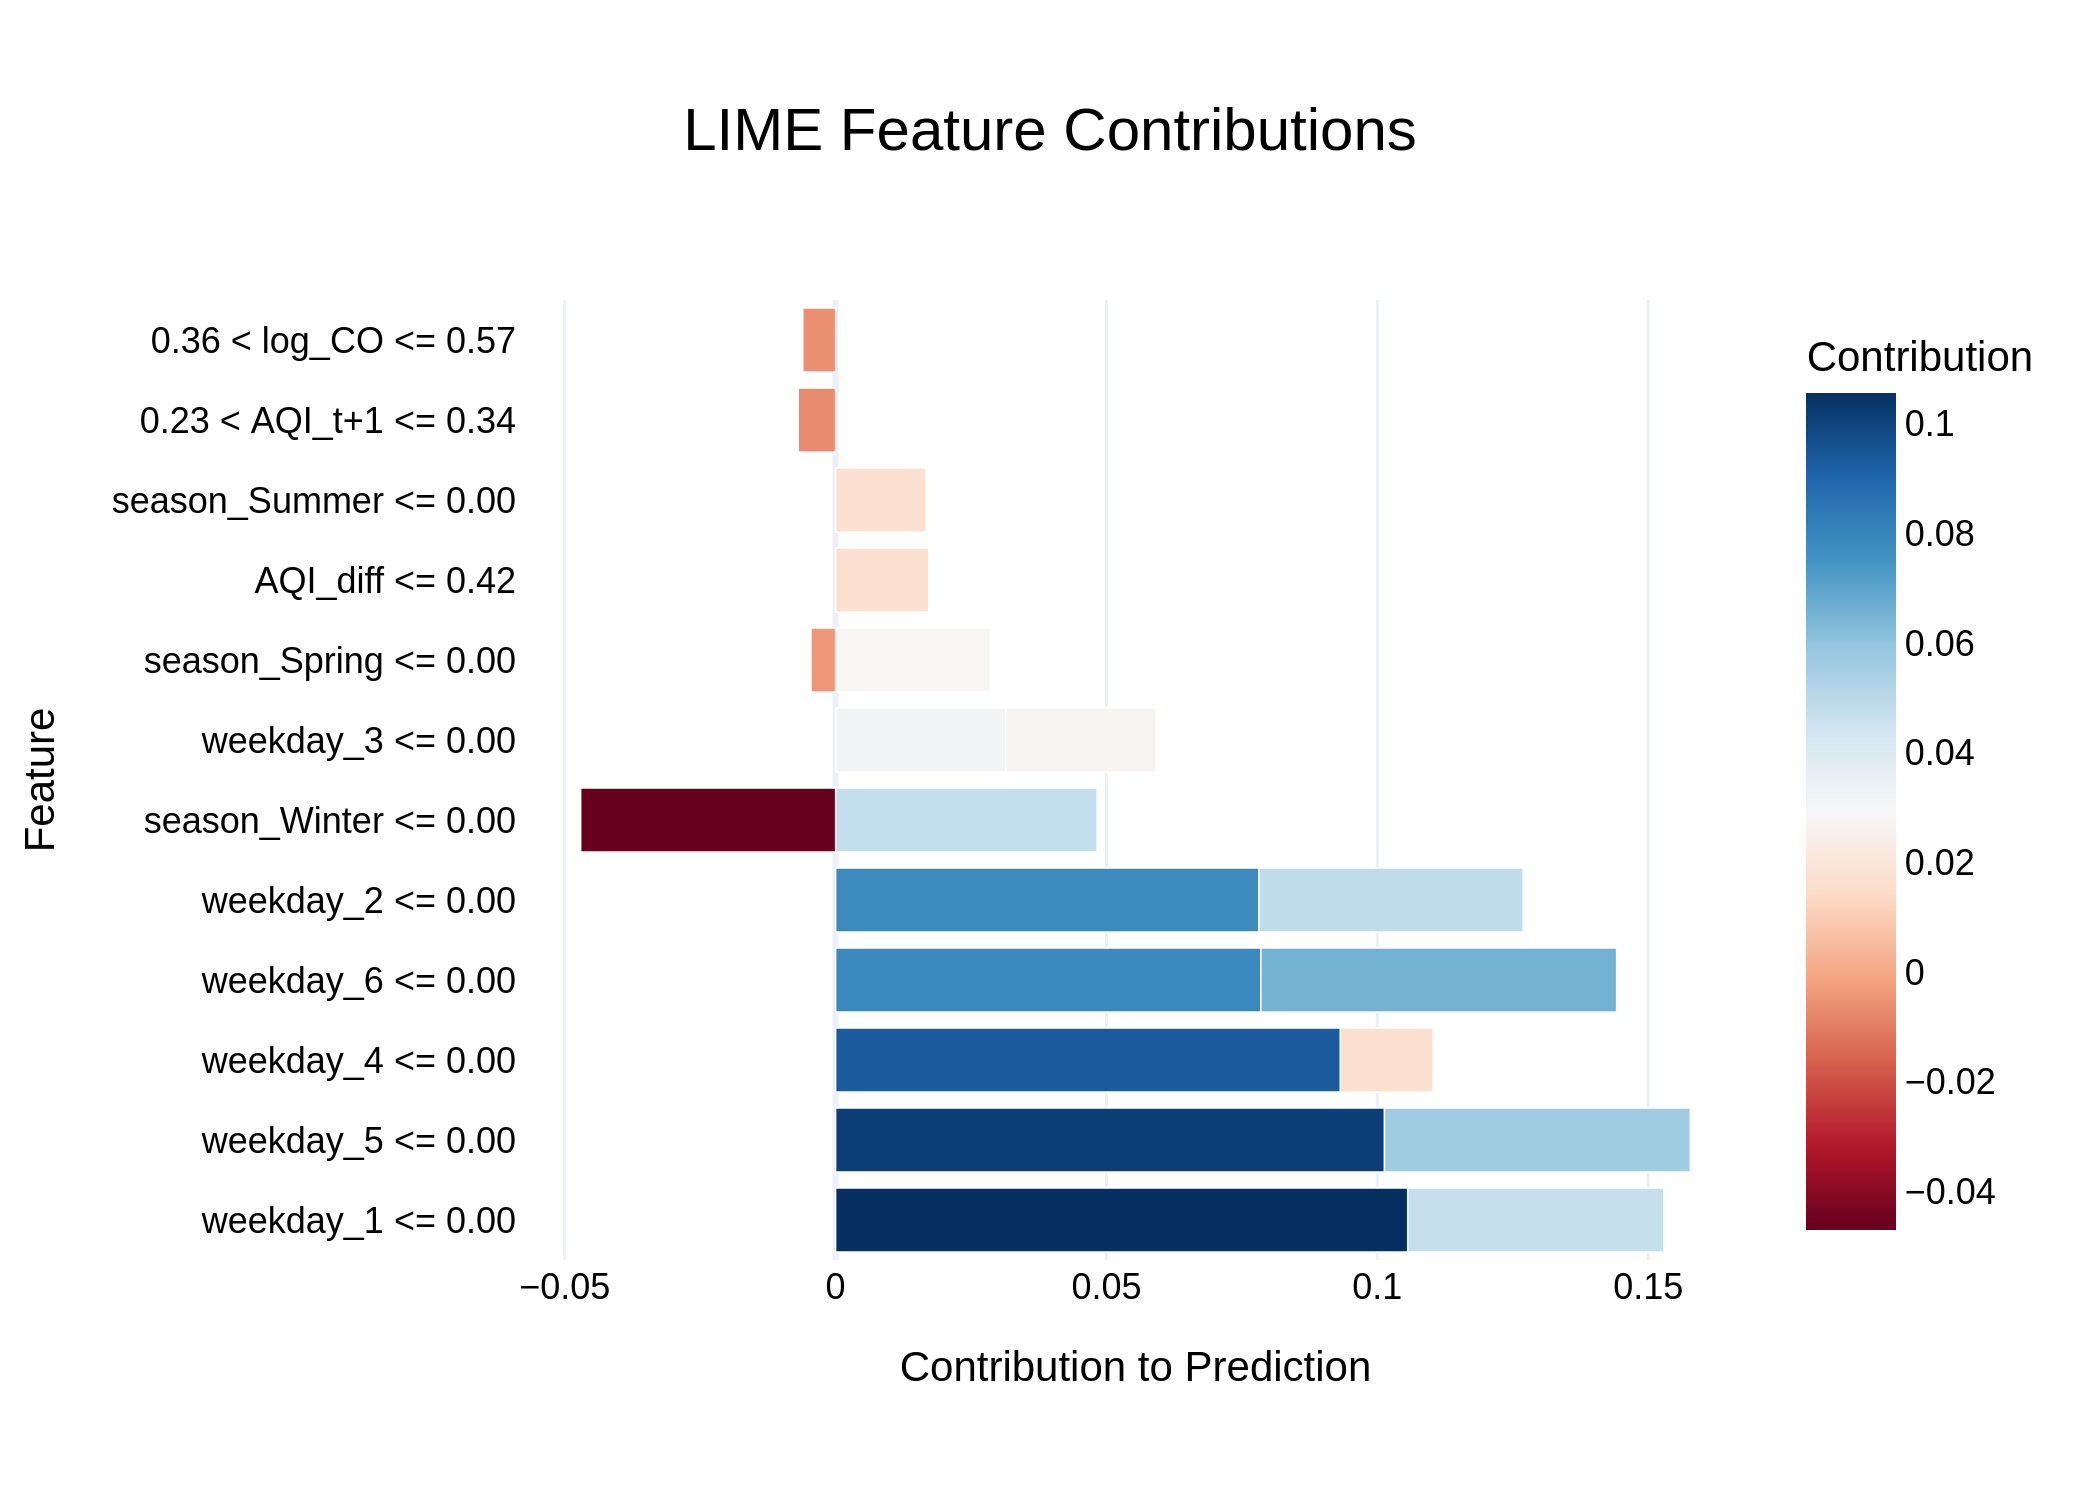
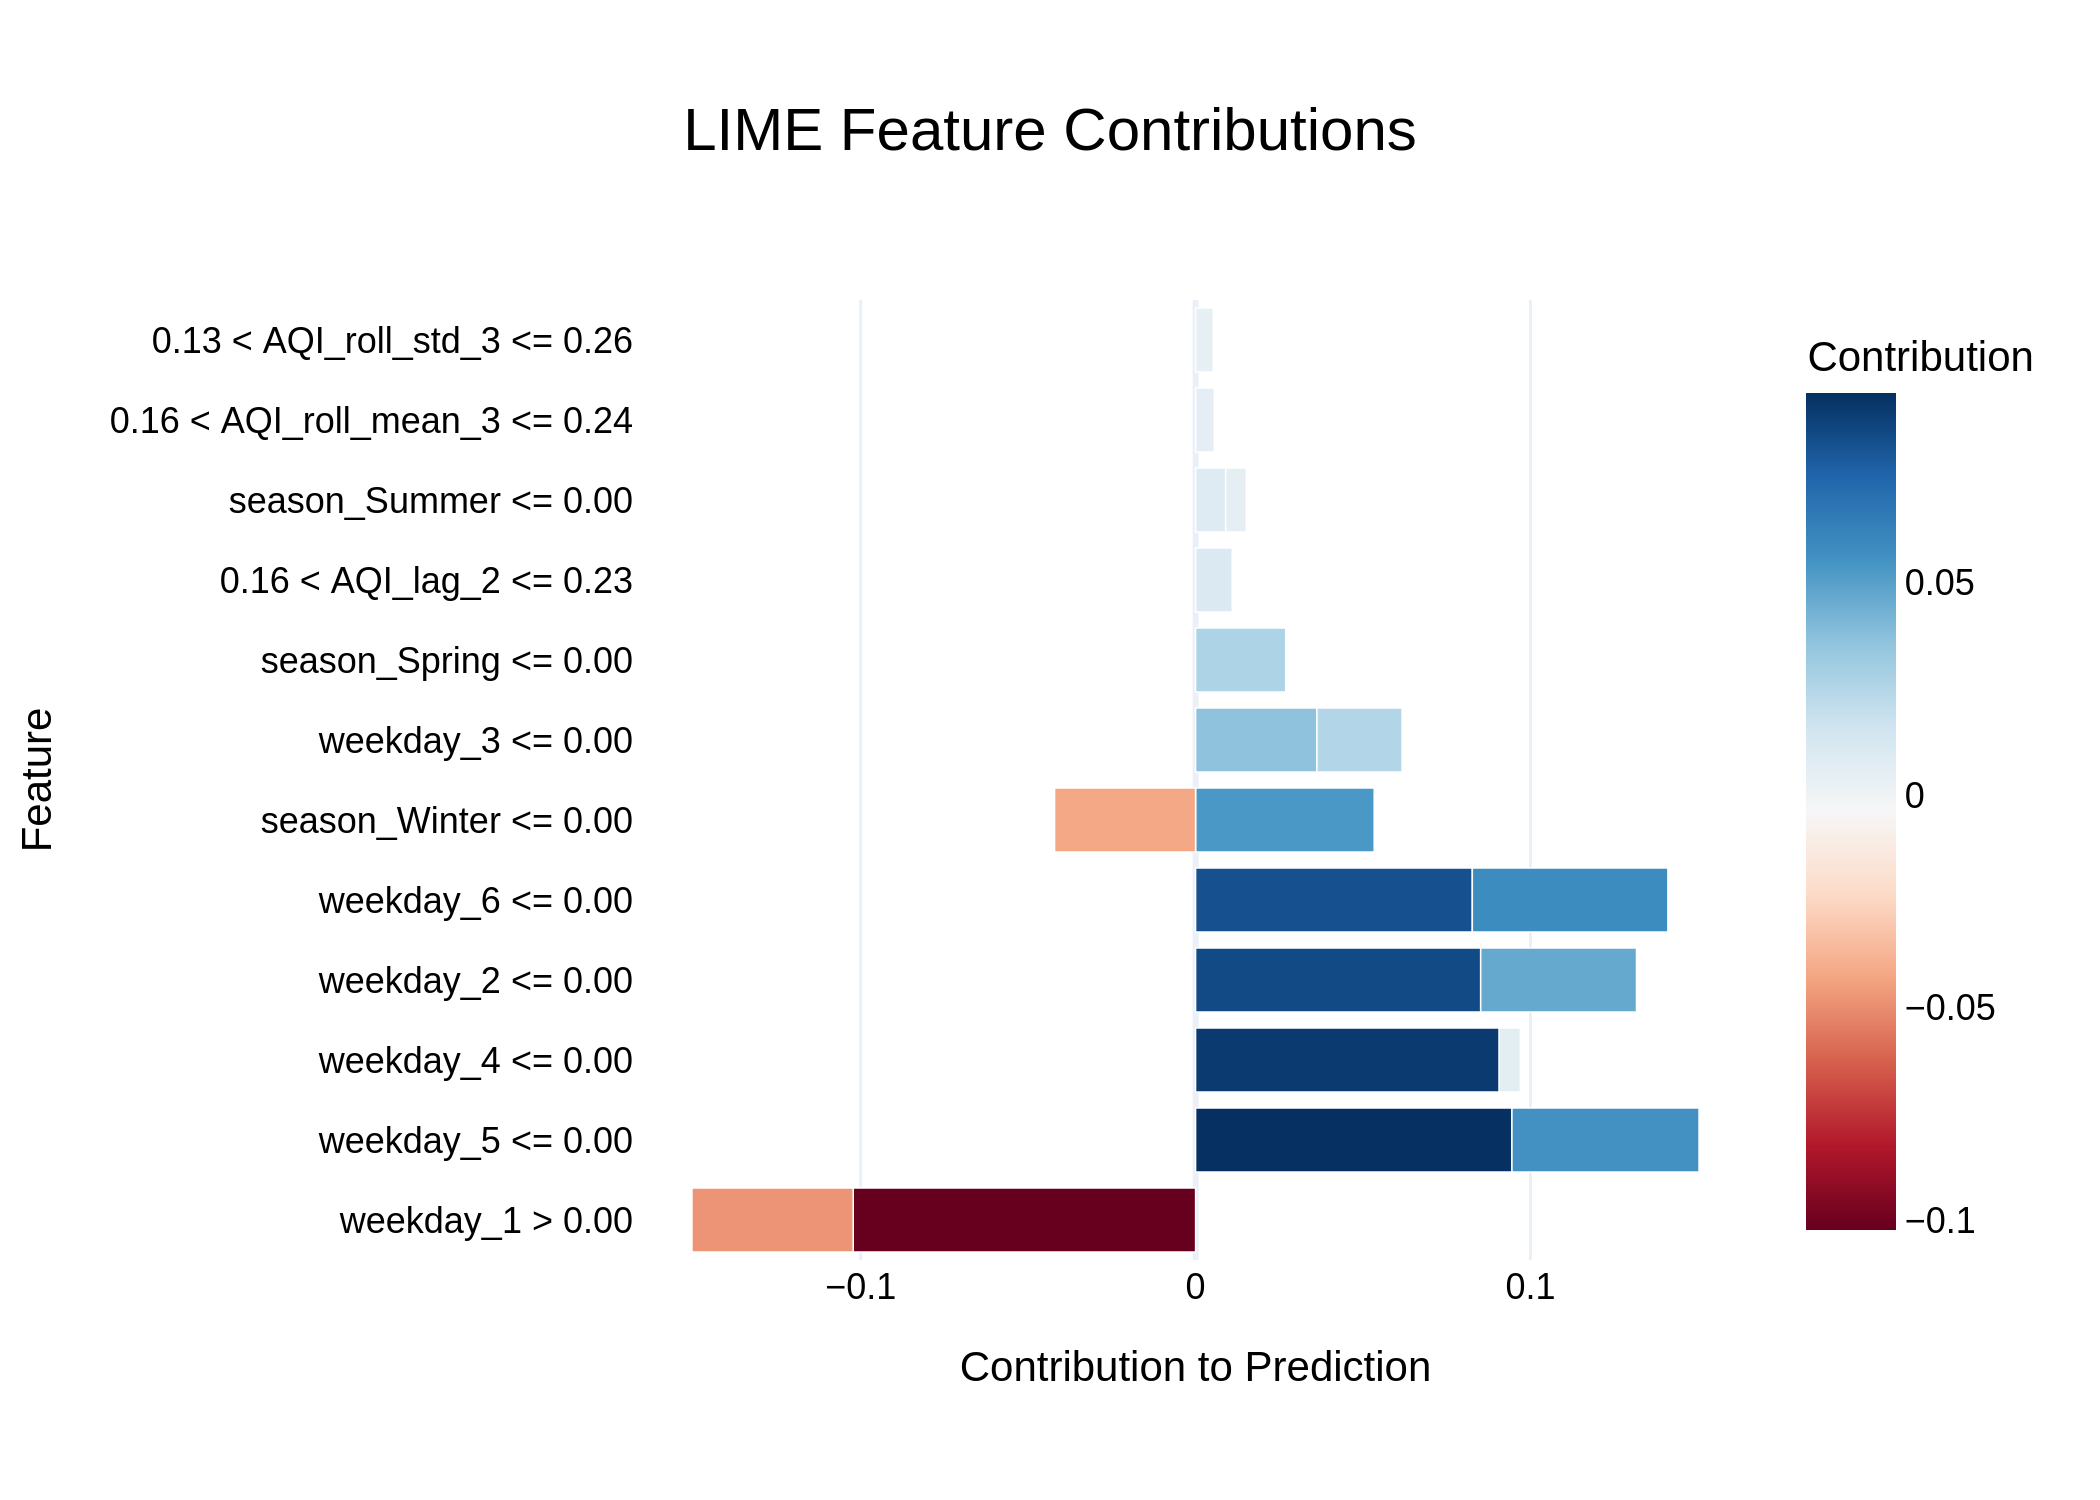
🔄 Auto: Daily data, prediction & LIME update

diff --git a/lime_explanations/lime_explanation.html b/lime_explanations/lime_explanation.html
@@ -37089,25 +37089,25 @@
 /***/ })
 /******/ ]);
 //# sourceMappingURL=bundle.js.map </script></head><body>
-        <div class="lime top_div" id="top_divLEEZT3BZEUR2BBS"></div>
+        <div class="lime top_div" id="top_divAWPNVOVSG1CM1ZB"></div>
         
         <script>
-        var top_div = d3.select('#top_divLEEZT3BZEUR2BBS').classed('lime top_div', true);
+        var top_div = d3.select('#top_divAWPNVOVSG1CM1ZB').classed('lime top_div', true);
         
         
                     var pp_div = top_div.append('div')
                                         .classed('lime predicted_value', true);
                     var pp_svg = pp_div.append('svg').style('width', '100%');
-                    var pp = new lime.PredictedValue(pp_svg, 0.41367965936660767, -0.20943444967269897, 0.8787821531295776);
+                    var pp = new lime.PredictedValue(pp_svg, 0.276661217212677, -0.15486571192741394, 0.7439906597137451);
                     
         var exp_div;
             var exp = new lime.Explanation(["negative", "positive"]);
         
             exp_div = top_div.append('div').classed('lime explanation', true);
-            exp.show([["weekday_1 <= 0.00", 0.10561380252618975], ["weekday_5 <= 0.00", 0.10132581223019022], ["weekday_4 <= 0.00", 0.09318874432395663], ["weekday_6 <= 0.00", 0.07849652408877518], ["weekday_2 <= 0.00", 0.07814533534381439], ["weekday_6 <= 0.00", 0.06568529807695937], ["weekday_5 <= 0.00", 0.0564624331473104], ["weekday_2 <= 0.00", 0.04878217003921988], ["season_Winter <= 0.00", 0.048278616183053825], ["weekday_1 <= 0.00", 0.04728175623613546], ["season_Winter <= 0.00", -0.04706884477962056], ["weekday_3 <= 0.00", 0.031393845033506236], ["season_Spring <= 0.00", 0.02855174032765905], ["weekday_3 <= 0.00", 0.02778205865252017], ["AQI_diff <= 0.42", 0.01721576861650071], ["weekday_4 <= 0.00", 0.01711752533719614], ["season_Summer <= 0.00", 0.01671682717902629], ["0.23 < AQI_t+1 <= 0.34", -0.006922713195857903], ["0.36 < log_CO <= 0.57", -0.0060657215101505586], ["season_Spring <= 0.00", -0.004565300804085146]], 1, exp_div);
+            exp.show([["weekday_1 > 0.00", -0.10223482140989097], ["weekday_5 <= 0.00", 0.09447391750072485], ["weekday_4 <= 0.00", 0.09067951010859711], ["weekday_2 <= 0.00", 0.0851357524320267], ["weekday_6 <= 0.00", 0.08263507351245782], ["weekday_6 <= 0.00", 0.058403761986345074], ["weekday_5 <= 0.00", 0.05586967577048896], ["season_Winter <= 0.00", 0.053335727229706635], ["weekday_1 > 0.00", -0.04815428174306047], ["weekday_2 <= 0.00", 0.04653206375440506], ["season_Winter <= 0.00", -0.042100761057696084], ["weekday_3 <= 0.00", 0.03622740950956328], ["season_Spring <= 0.00", 0.02690643685048719], ["weekday_3 <= 0.00", 0.02542384762445536], ["0.16 < AQI_lag_2 <= 0.23", 0.010939159986170852], ["season_Summer <= 0.00", 0.008993695436083136], ["weekday_4 <= 0.00", 0.006313083947322028], ["season_Summer <= 0.00", 0.006188063223026993], ["0.16 < AQI_roll_mean_3 <= 0.24", 0.00562165936988997], ["0.13 < AQI_roll_std_3 <= 0.26", 0.005295905813353453]], 1, exp_div);
             
         var raw_div = top_div.append('div');
-            exp.show_raw_tabular([["weekday_1", "0.00", 0.10561380252618975], ["weekday_5", "0.00", 0.10132581223019022], ["weekday_4", "0.00", 0.09318874432395663], ["weekday_6", "0.00", 0.07849652408877518], ["weekday_2", "0.00", 0.07814533534381439], ["weekday_6", "0.00", 0.06568529807695937], ["weekday_5", "0.00", 0.0564624331473104], ["weekday_2", "0.00", 0.04878217003921988], ["season_Winter", "0.00", 0.048278616183053825], ["weekday_1", "0.00", 0.04728175623613546], ["season_Winter", "0.00", -0.04706884477962056], ["weekday_3", "0.00", 0.031393845033506236], ["season_Spring", "0.00", 0.02855174032765905], ["weekday_3", "0.00", 0.02778205865252017], ["AQI_diff", "0.41", 0.01721576861650071], ["weekday_4", "0.00", 0.01711752533719614], ["season_Summer", "0.00", 0.01671682717902629], ["AQI_t+1", "0.29", -0.006922713195857903], ["log_CO", "0.49", -0.0060657215101505586], ["season_Spring", "0.00", -0.004565300804085146]], 1, raw_div);
+            exp.show_raw_tabular([["weekday_1", "1.00", -0.10223482140989097], ["weekday_5", "0.00", 0.09447391750072485], ["weekday_4", "0.00", 0.09067951010859711], ["weekday_2", "0.00", 0.0851357524320267], ["weekday_6", "0.00", 0.08263507351245782], ["weekday_6", "0.00", 0.058403761986345074], ["weekday_5", "0.00", 0.05586967577048896], ["season_Winter", "0.00", 0.053335727229706635], ["weekday_1", "1.00", -0.04815428174306047], ["weekday_2", "0.00", 0.04653206375440506], ["season_Winter", "0.00", -0.042100761057696084], ["weekday_3", "0.00", 0.03622740950956328], ["season_Spring", "0.00", 0.02690643685048719], ["weekday_3", "0.00", 0.02542384762445536], ["AQI_lag_2", "0.18", 0.010939159986170852], ["season_Summer", "0.00", 0.008993695436083136], ["weekday_4", "0.00", 0.006313083947322028], ["season_Summer", "0.00", 0.006188063223026993], ["AQI_roll_mean_3", "0.23", 0.00562165936988997], ["AQI_roll_std_3", "0.20", 0.005295905813353453]], 1, raw_div);
         
         </script>
         </body></html>
